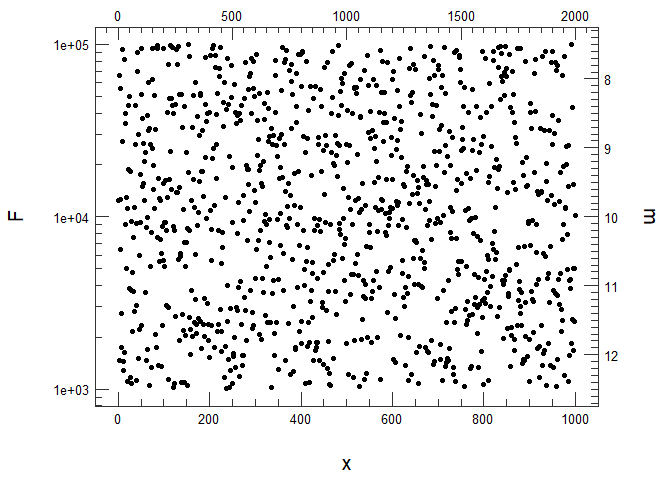
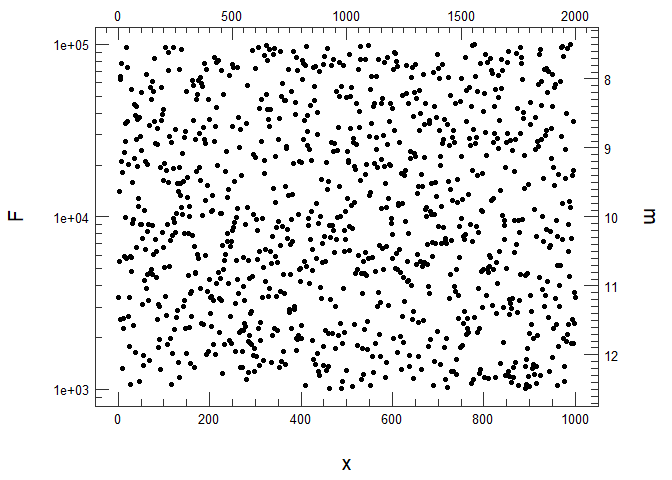
Fixed some README issues & reproducible last plot

Changed region(s): [[0.1562, 0.0938, 0.875, 0.8125], [0.25, 0.7812, 0.2812, 0.8125]]

diff --git a/README.md b/README.md
@@ -1,5 +1,3 @@
-sciplotr
-================
 
 # `sciplotr`
 
@@ -15,6 +13,12 @@ There are also extension methods to work with units (as in
 [`grid`](https://github.com/cran/grid)’s `unit`).
 
 ## Units support
+
+``` r
+library(grid)
+library(ggplot2)
+library(sciplotr, quietly = TRUE, warn.conflicts = FALSE)
+```
 
 ``` r
 # {grid}'s way
@@ -126,6 +130,7 @@ time, surface and frequency) and secondary y-axis shows “magnitudes”
 (`2.5 * log10(F / F0)`).
 
 ``` r
+set.seed(1)
 data <- data.frame(x = 1:1000, y = 10 ^ runif(1000, 3, 5));
 ggplot_sci(data, aes(x, y)) +
      geom_point() +
